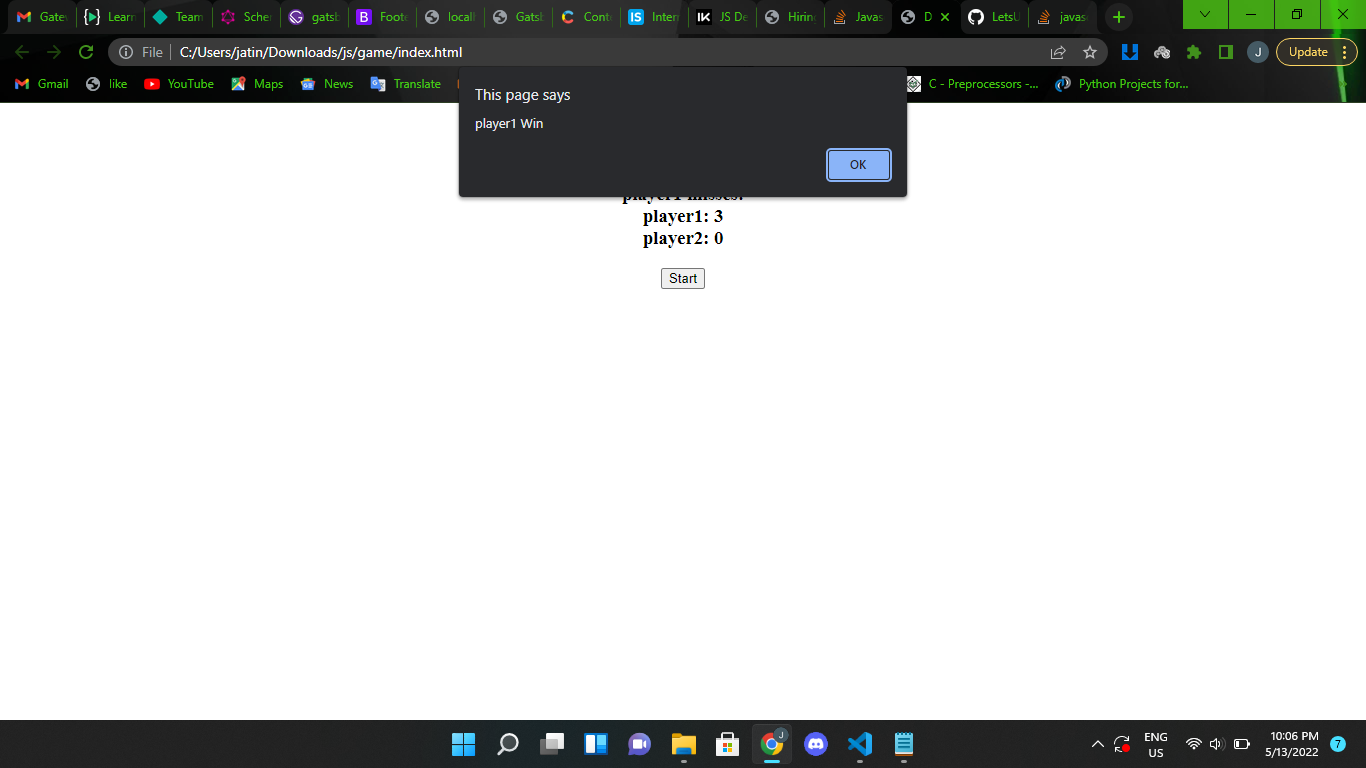
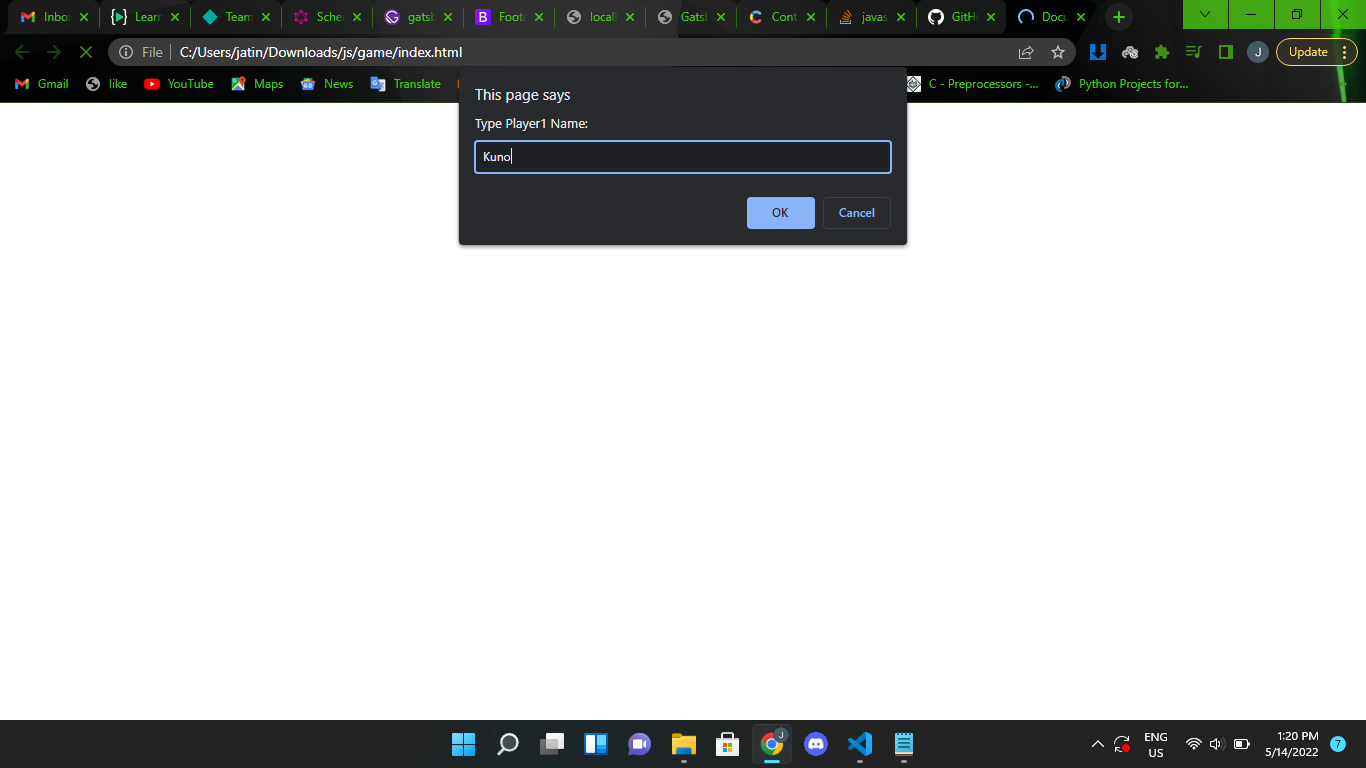
game update health

diff --git a/game/game.js b/game/game.js
@@ -1,27 +1,26 @@
+////--------------Creating HTML Content-------------------
+
 const div1 = document.createElement("div")
 div1.style.textAlign = "center"
+
+//-------------Creating "Shooting Game" Heading-----------
 const h1 = document.createElement("h1")
 h1.innerText = "Shooting Game"
 div1.append(h1)
 const div2 = document.createElement("div")
 div1.append(div2)
+
 document.body.append(div1)
 
 
-var player1 = prompt("Type Player1 Name: ")||"player1"
-var player2 = prompt("Type Player2 Name: ")||"player2"
-var currentPlayer = player1 || "player";
-var player1Score = 0;
-var player1Health = 100
-var player2Health = 100
-var player2Score = 0;
+//-----------Create "Score" Heading----------------------- 
 
 const heading = document.createElement("h3")
 heading.innerText = "Score Screen"
 div1.append(heading)
 
-///
 
+//-------------Create Button For Start Game----------------
 
 const button = document.createElement("button")
 button.setAttribute("id", "btn")
@@ -29,28 +28,74 @@ button.innerText = "Start"
 div1.append(button)
 
 
-
+///-------------Create Function and variables For Game--------------------
 const btn = document.getElementById("btn")
-
-
 btn.addEventListener("click", Play)
 
+
+var player1 = prompt("Type Player1 Name: ")||"player1"
+var player2 = prompt("Type Player2 Name: ")||"player2"
+var currentPlayer = player1 || "player";
+var player1Score = 0;
+var player2Score = 0;
+
+
+//--------------Function which call in "addEventListener"---------------
 function Play(){
-               
+
+////progress 1st player health
+const div3 = document.createElement("div")
+div3.style.display="flex"
+div3.style.justifyContent="space-around"
+
+const div4 = document.createElement("div")
+div4.style.display="flex"
+div4.style.justifyContent="space-around"
+
+////player1 heading which user enter 
+const heading1 = document.createElement("h3")
+heading1.innerText = `${player1}`
+div4.append(heading1)
+////player2 heading which user enter  
+const heading2 = document.createElement("h3")
+heading2.innerText = `${player2}`
+div4.append(heading2)
+
+///progress of 2nd player health
+const progress1 = document.createElement("progress")
+progress1.setAttribute("id", "health1")
+progress1.setAttribute("value", "100")
+progress1.setAttribute("max", "100")
+div3.append(progress1)
+
+///progress of 2nd player health
+const progress2 = document.createElement("progress")
+progress2.setAttribute("id", "health2")
+progress2.setAttribute("value", "100")
+progress2.setAttribute("max", "100")
+div3.append(progress2)
+div2.append(div4)
+div2.append(div3)
+
+var player1Health = document.getElementById("health1")
+var player2Health = document.getElementById("health2")
+            
+//----------Use "setInterval" For loop---------
           var x = 0
           var interval = setInterval(()=>{
             let randomNumber = Math.floor(Math.random() * 100)
-            
+            //use random value always to change player 
+            //incressing there score and decrease other player health
             if(randomNumber <= 60){
               if(currentPlayer == player1){
                 player1Score++
-                player2Health--
+                player2Health.value -= 30
               }
               else{
                 player2Score++
-                player1Health--
+                player1Health.value -= 30
               }
-
+             //print values on screen
               heading.innerText = currentPlayer + " shoot! \n" +
               player1 + ": " + player1Score + "\n" +
               player2 + ": " + player2Score + "\n" 
@@ -60,7 +105,7 @@ function Play(){
                 player1 + ": " + player1Score + "\n" +
                 player2 + ": " + player2Score + "\n" 
 
-
+               //swap players every time in else
                 if (currentPlayer == player1) {
                     currentPlayer = player2;
                   } else {
@@ -69,7 +114,7 @@ function Play(){
 
             }
 
-              
+ //---------Condition For Break interval loop------------------             
             if(player1Score < 5 && player2Score < 5 && ++x===5){
 
               window.clearInterval(interval);
@@ -95,22 +140,3 @@ function Play(){
   
           }, 3000)
 }
-
-
-
-
-
-
-
-
-
-
-
-
-
-
-
-
-
-
-

diff --git a/game/index.html b/game/index.html
@@ -11,7 +11,3 @@
 <script src="./game.js"></script>
 </body>
 </html>
-
-
-<!--let health1 = document.getElementById("health1")
-let health2 = document.getElementById("health2")-->
